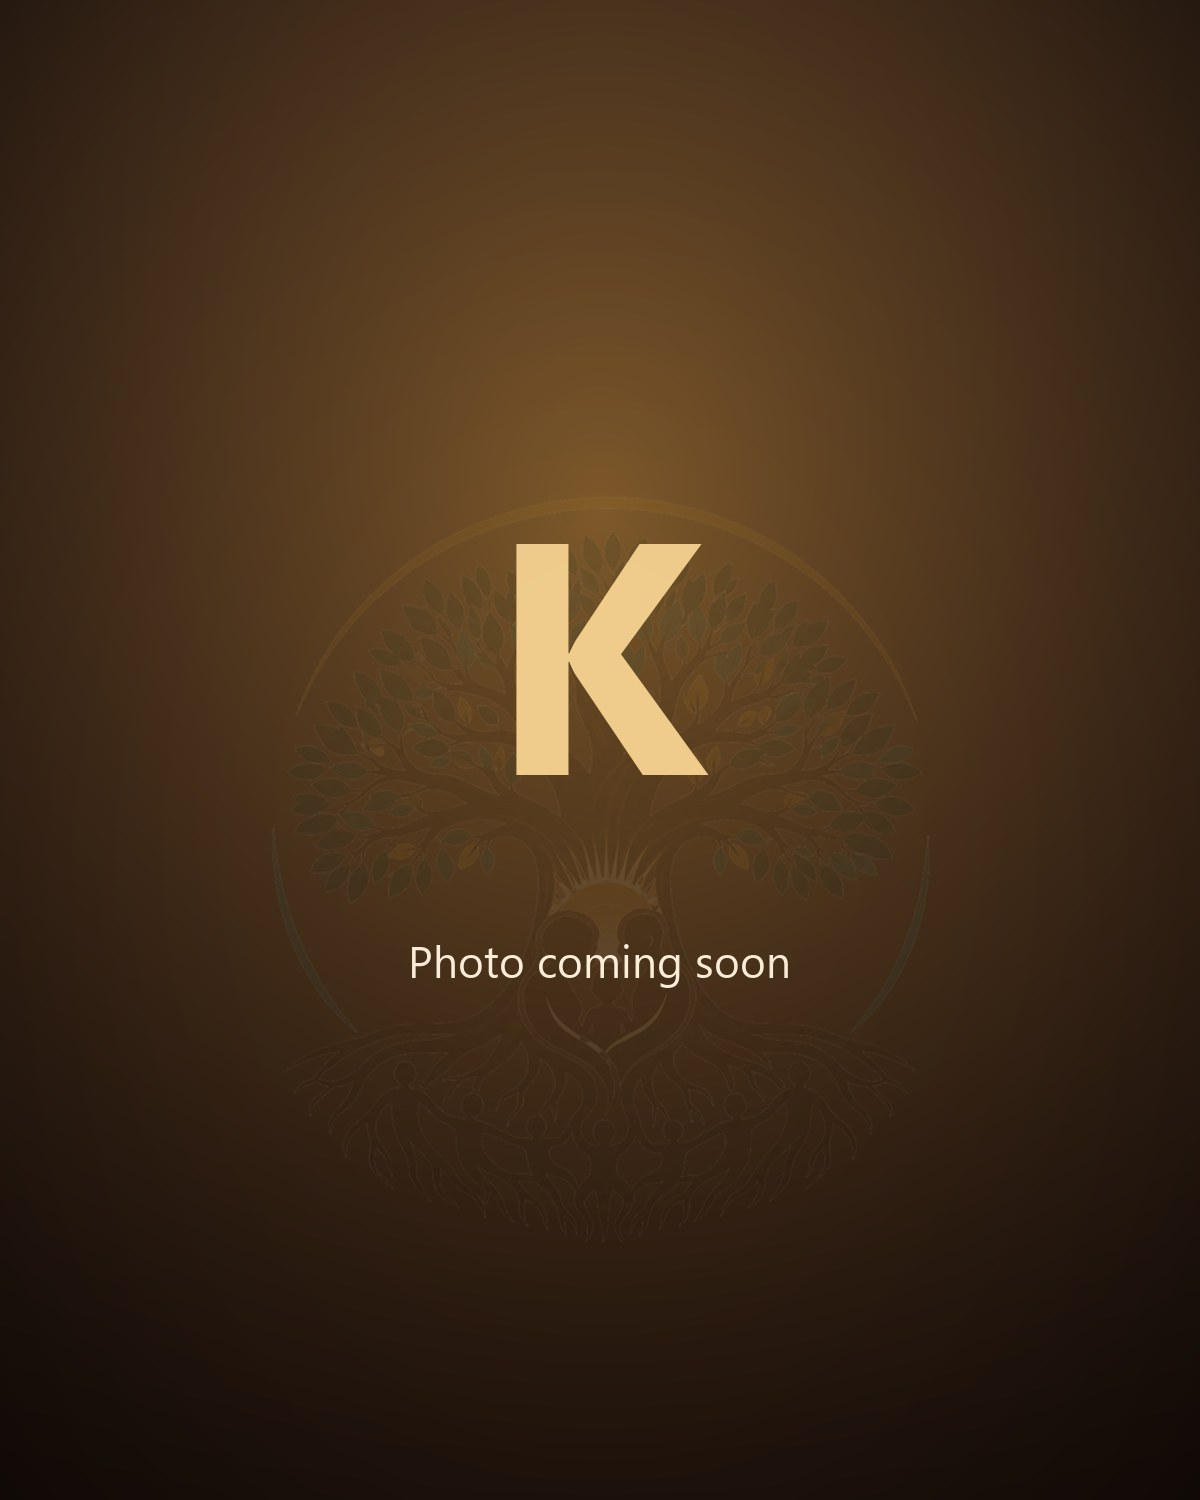
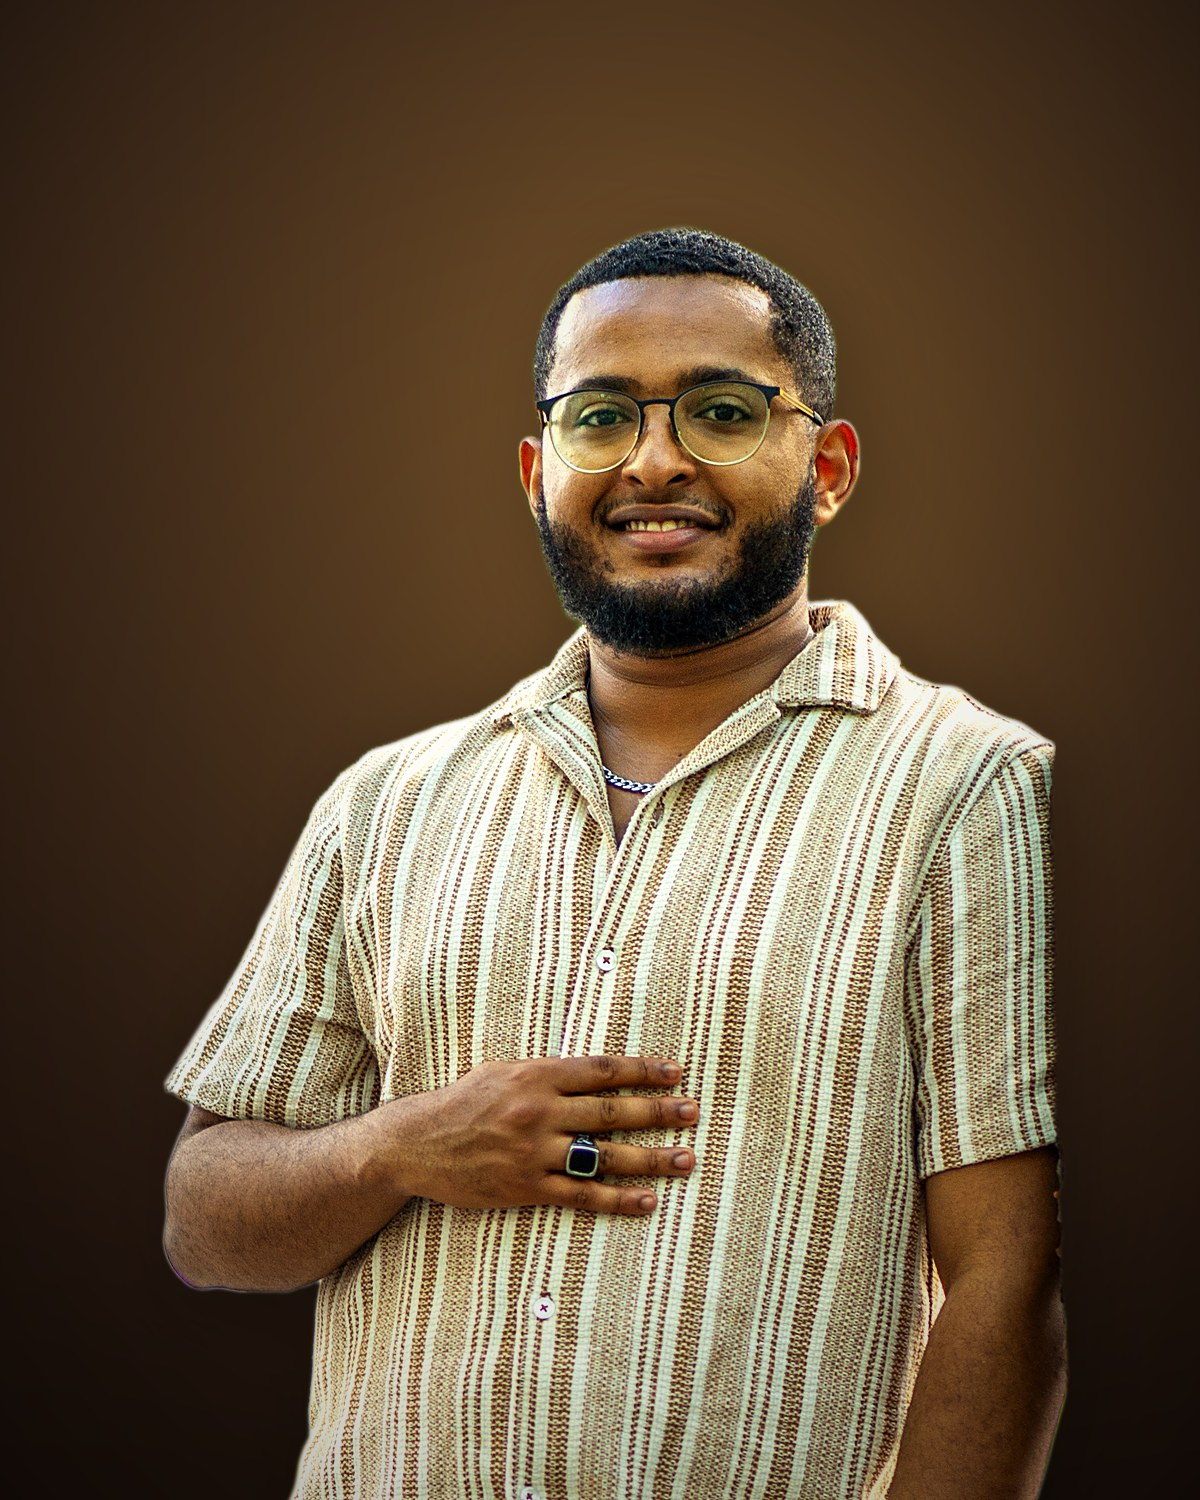
Add Kaleab's retouched portrait
Background removed and composited on the same warm brown studio backdrop as
Rufael's, with matching crop, headroom and colour grade so the two leadership
portraits read as one set. Also exports a transparent cutout and a square crop
for social profiles.

diff --git a/HOW-TO-EDIT.md b/HOW-TO-EDIT.md
@@ -121,7 +121,9 @@ Files already there:
 
 | File | What it is |
 | --- | --- |
-| `kaleab-portrait.jpg` | **Placeholder** — the Chief Program Officer photo still needs to be added |
+| `kaleab-portrait.jpg` | The retouched Chief Program Officer photo, matching Rufael's |
+| `kaleab-cutout.png` | Kaleab with **no background at all** |
+| `kaleab-square.jpg` | Square crop for Instagram or LinkedIn |
 | `rufael-portrait.jpg` | The retouched founder photo on a warm brown backdrop |
 | `rufael-portrait-green.jpg` | The same photo on a deep green backdrop |
 | `rufael-cutout.png` | The photo with **no background at all** — useful for posters and social posts |
@@ -135,16 +137,8 @@ Files already there:
 `rufael-portrait.jpg` and change it to `rufael-portrait-green.jpg`.
 Do the same in `about.html`.
 
-### Still to do: Kaleab's photo
-
-`kaleab-portrait.jpg` is currently a gold "K" placeholder, not a real photo.
-To have it retouched to match Rufael's — background removed, warm brown studio
-backdrop, same crop and colour grade — save the original photo anywhere on this
-computer and say so in the chat. It takes a couple of minutes.
-
-To drop a photo in yourself instead, save it over
-`assets/img/kaleab-portrait.jpg`. Use an upright photo where the head is near
-the top; the arch frame crops the corners.
+Your original, untouched photos are kept outside this folder so they don't get
+published: `Desktop\Kaleab-original-photo.jpg`.
 
 The photo sits inside an arch-shaped frame (rounded at the top like a doorway).
 That shape is set in the CSS by `--arch` and applies wherever the founder photo

diff --git a/README.md b/README.md
@@ -31,7 +31,6 @@ You're most likely here to look at the site itself rather than the code.
 
 ### Known gaps
 
-- The Chief Program Officer's photo is a placeholder.
 - There is no privacy policy page yet.
 - The domain is temporary; a `.ca` address is next.
 
